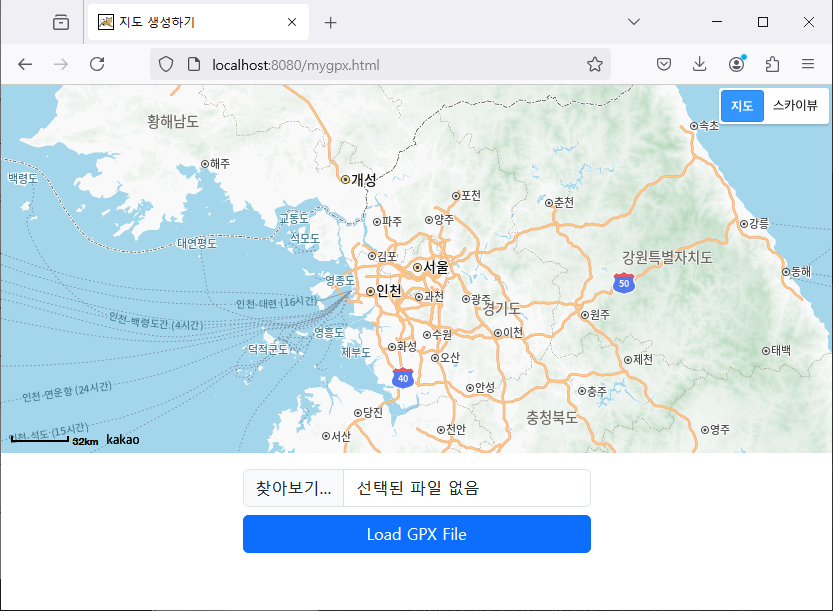
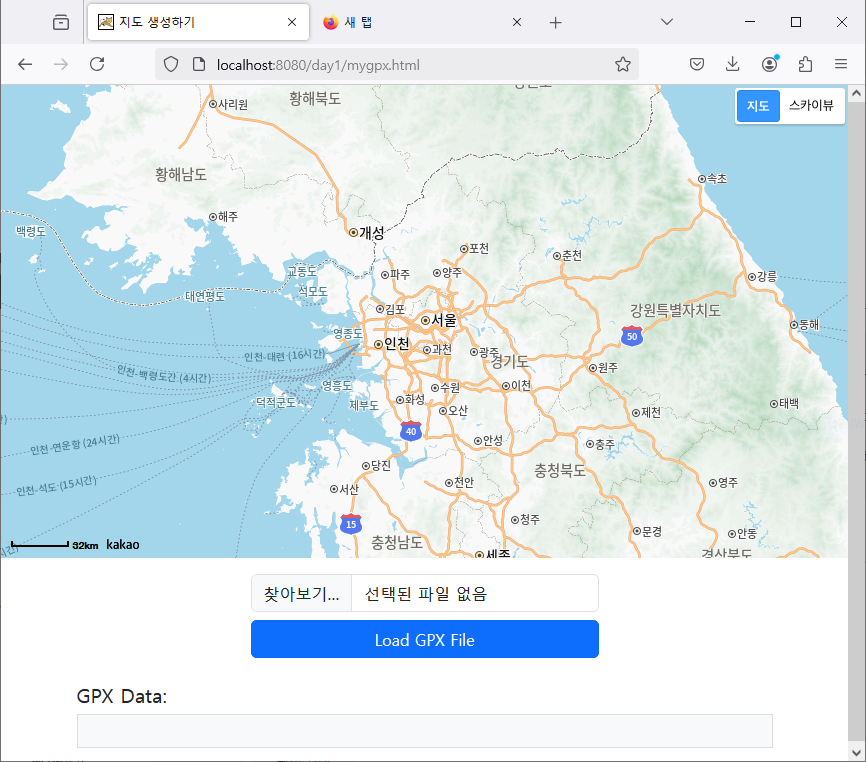
day1으로 변경

diff --git a/README.md b/README.md
@@ -90,8 +90,8 @@ Hello, Giljabi.
 ## 3. 카카오맵에 gpx 올리기
 ### 3.1 웹화면
 * 카카오맵을 사용하려면 javascript에 앱키를 넣어서 사용하며, jquery를 함께 사용합니다.
-* src/main/resources/static/mygpx.html
-* gpx 파일업로드를 위해 bootstr파일, 버튼을 반응형에 맞게
+* src/main/resources/static/day1/mygpx.html
+* gpx 파일업로드를 위해 bootstrap파일, 버튼을 반응형에 맞게
 ```html
 <!DOCTYPE html>
 <html lang="ko">
@@ -121,7 +121,7 @@ Hello, Giljabi.
 </html>
 ```
 
-* src/main/resources/static/js/mygpx.js mygpx.html에서 사용할 javascript를 함께 작성합니다.
+* src/main/resources/static/day1/mygpx.js mygpx.html에서 사용할 javascript를 함께 작성합니다.
 ```javascript
 
 let gMap;
@@ -168,7 +168,7 @@ $(document).ready(function () {
 });
 ```
 
-* src/main/resources/static/css/mygpx.css
+* src/main/resources/static/day1/mygpx.css
 ```css
 html, body {
     height: 100%; /* 부모 요소의 높이를 명시적으로 설정 */
@@ -185,7 +185,4 @@ html, body {
 
 ![img.png](docs/images/day1/2-kakao-mygpx.png)
 
-
 ### 3.2 gpx 오브젝트
-* https://www.topografix.com/GPX/1/1/
-
